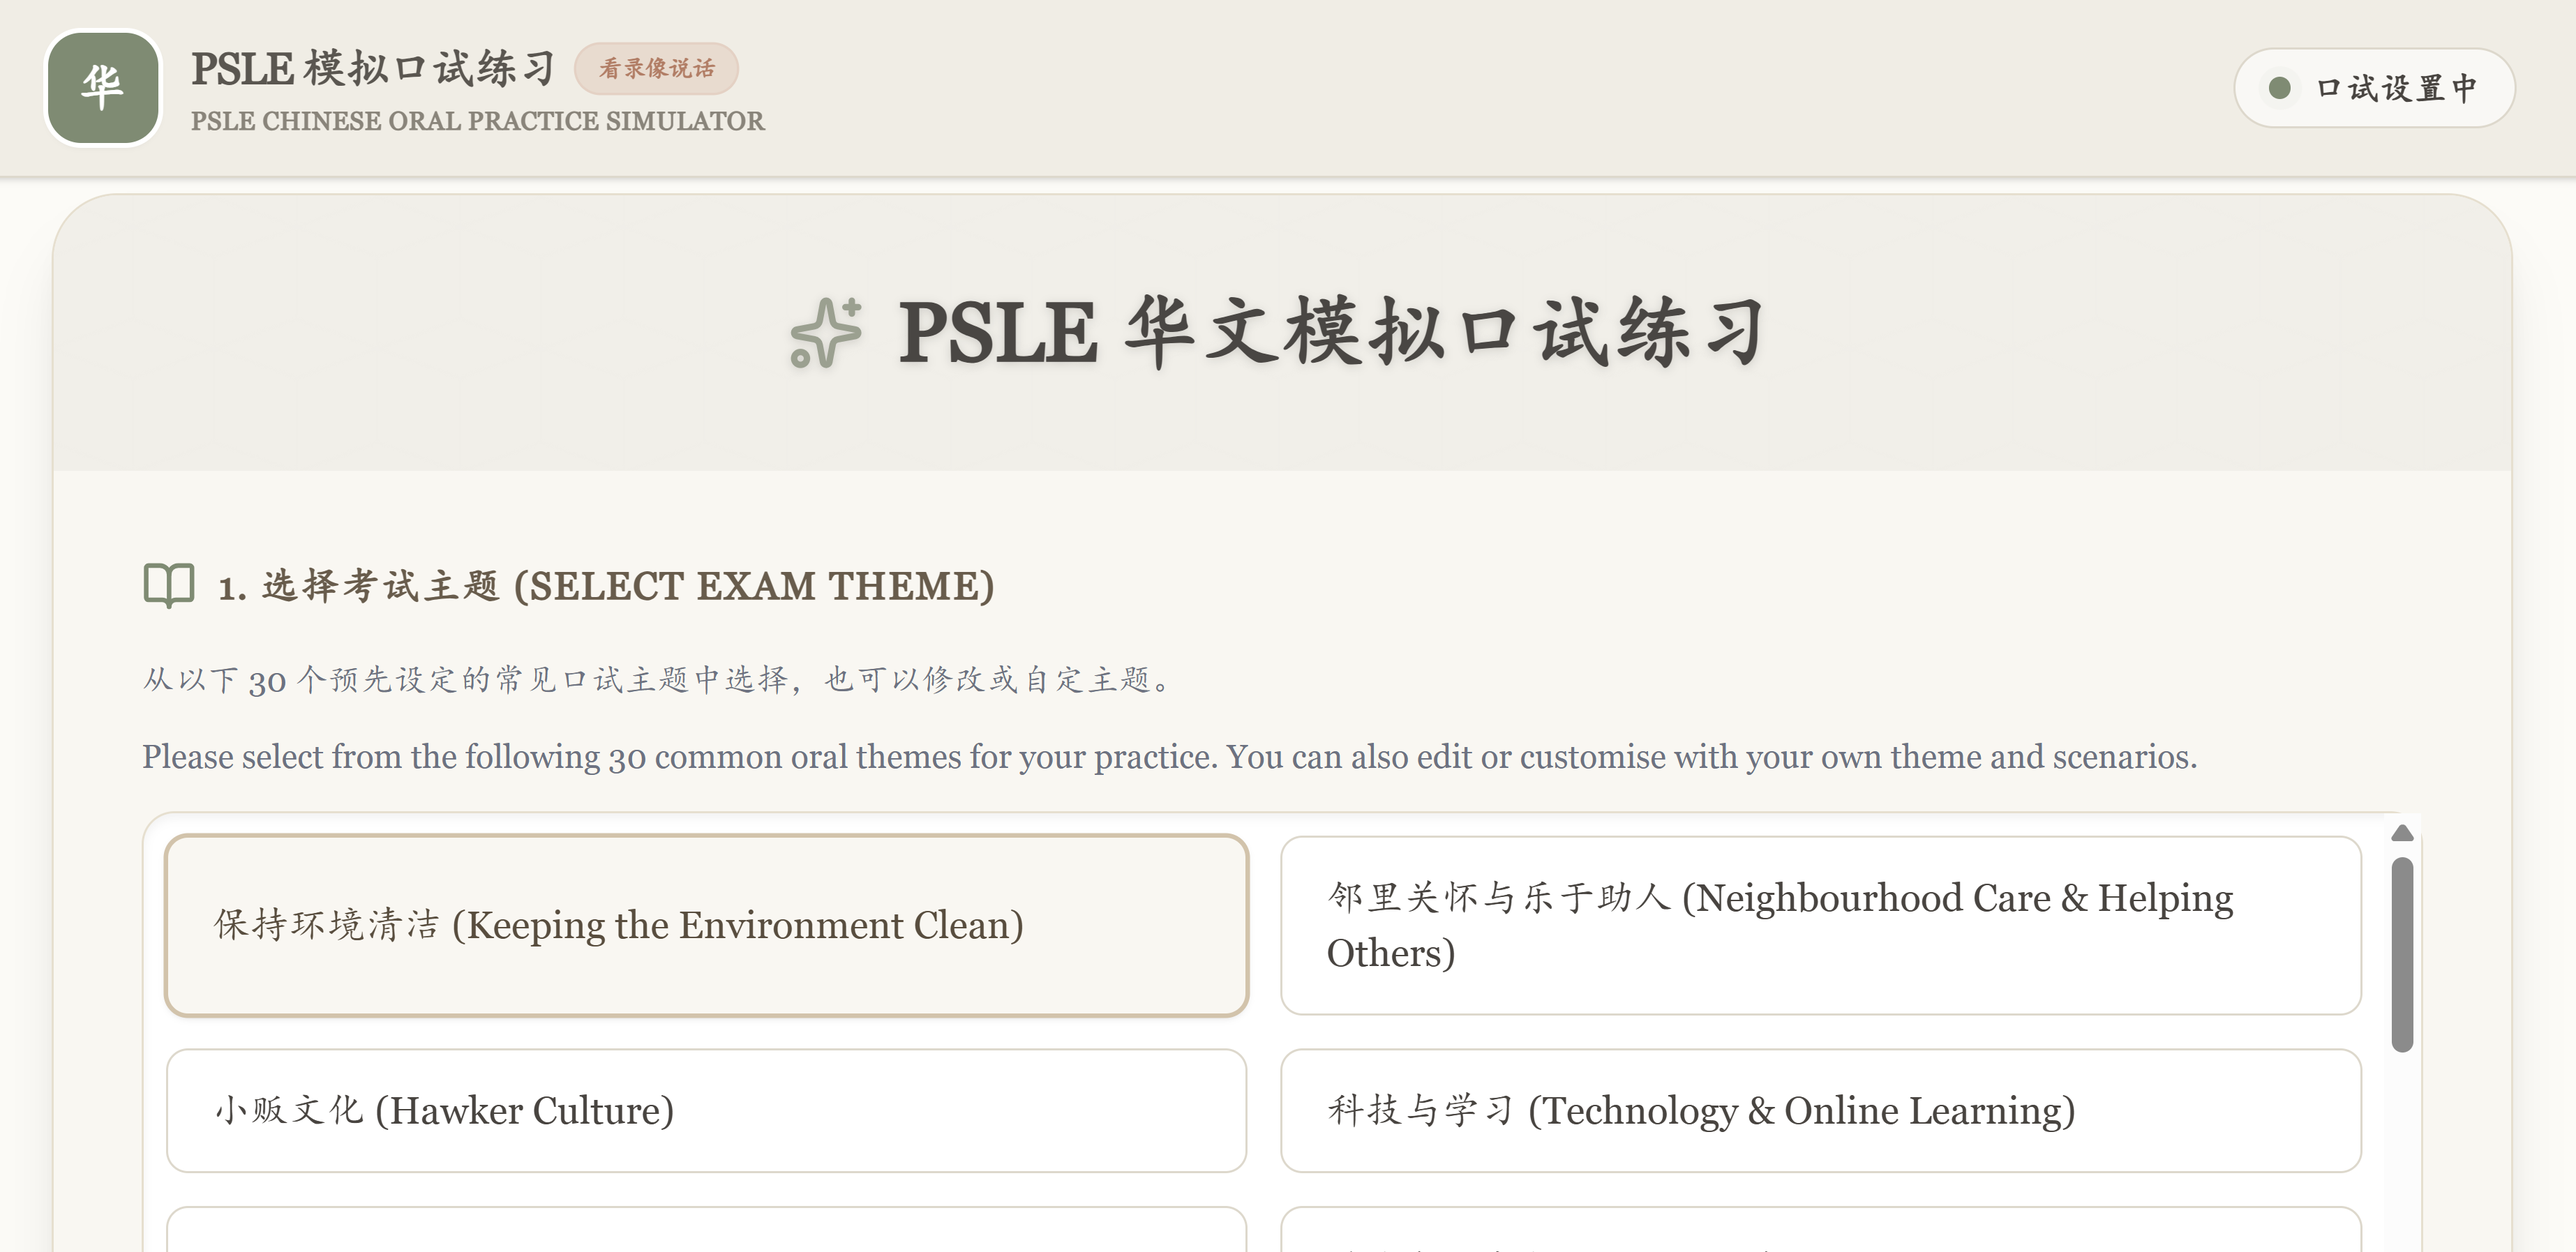
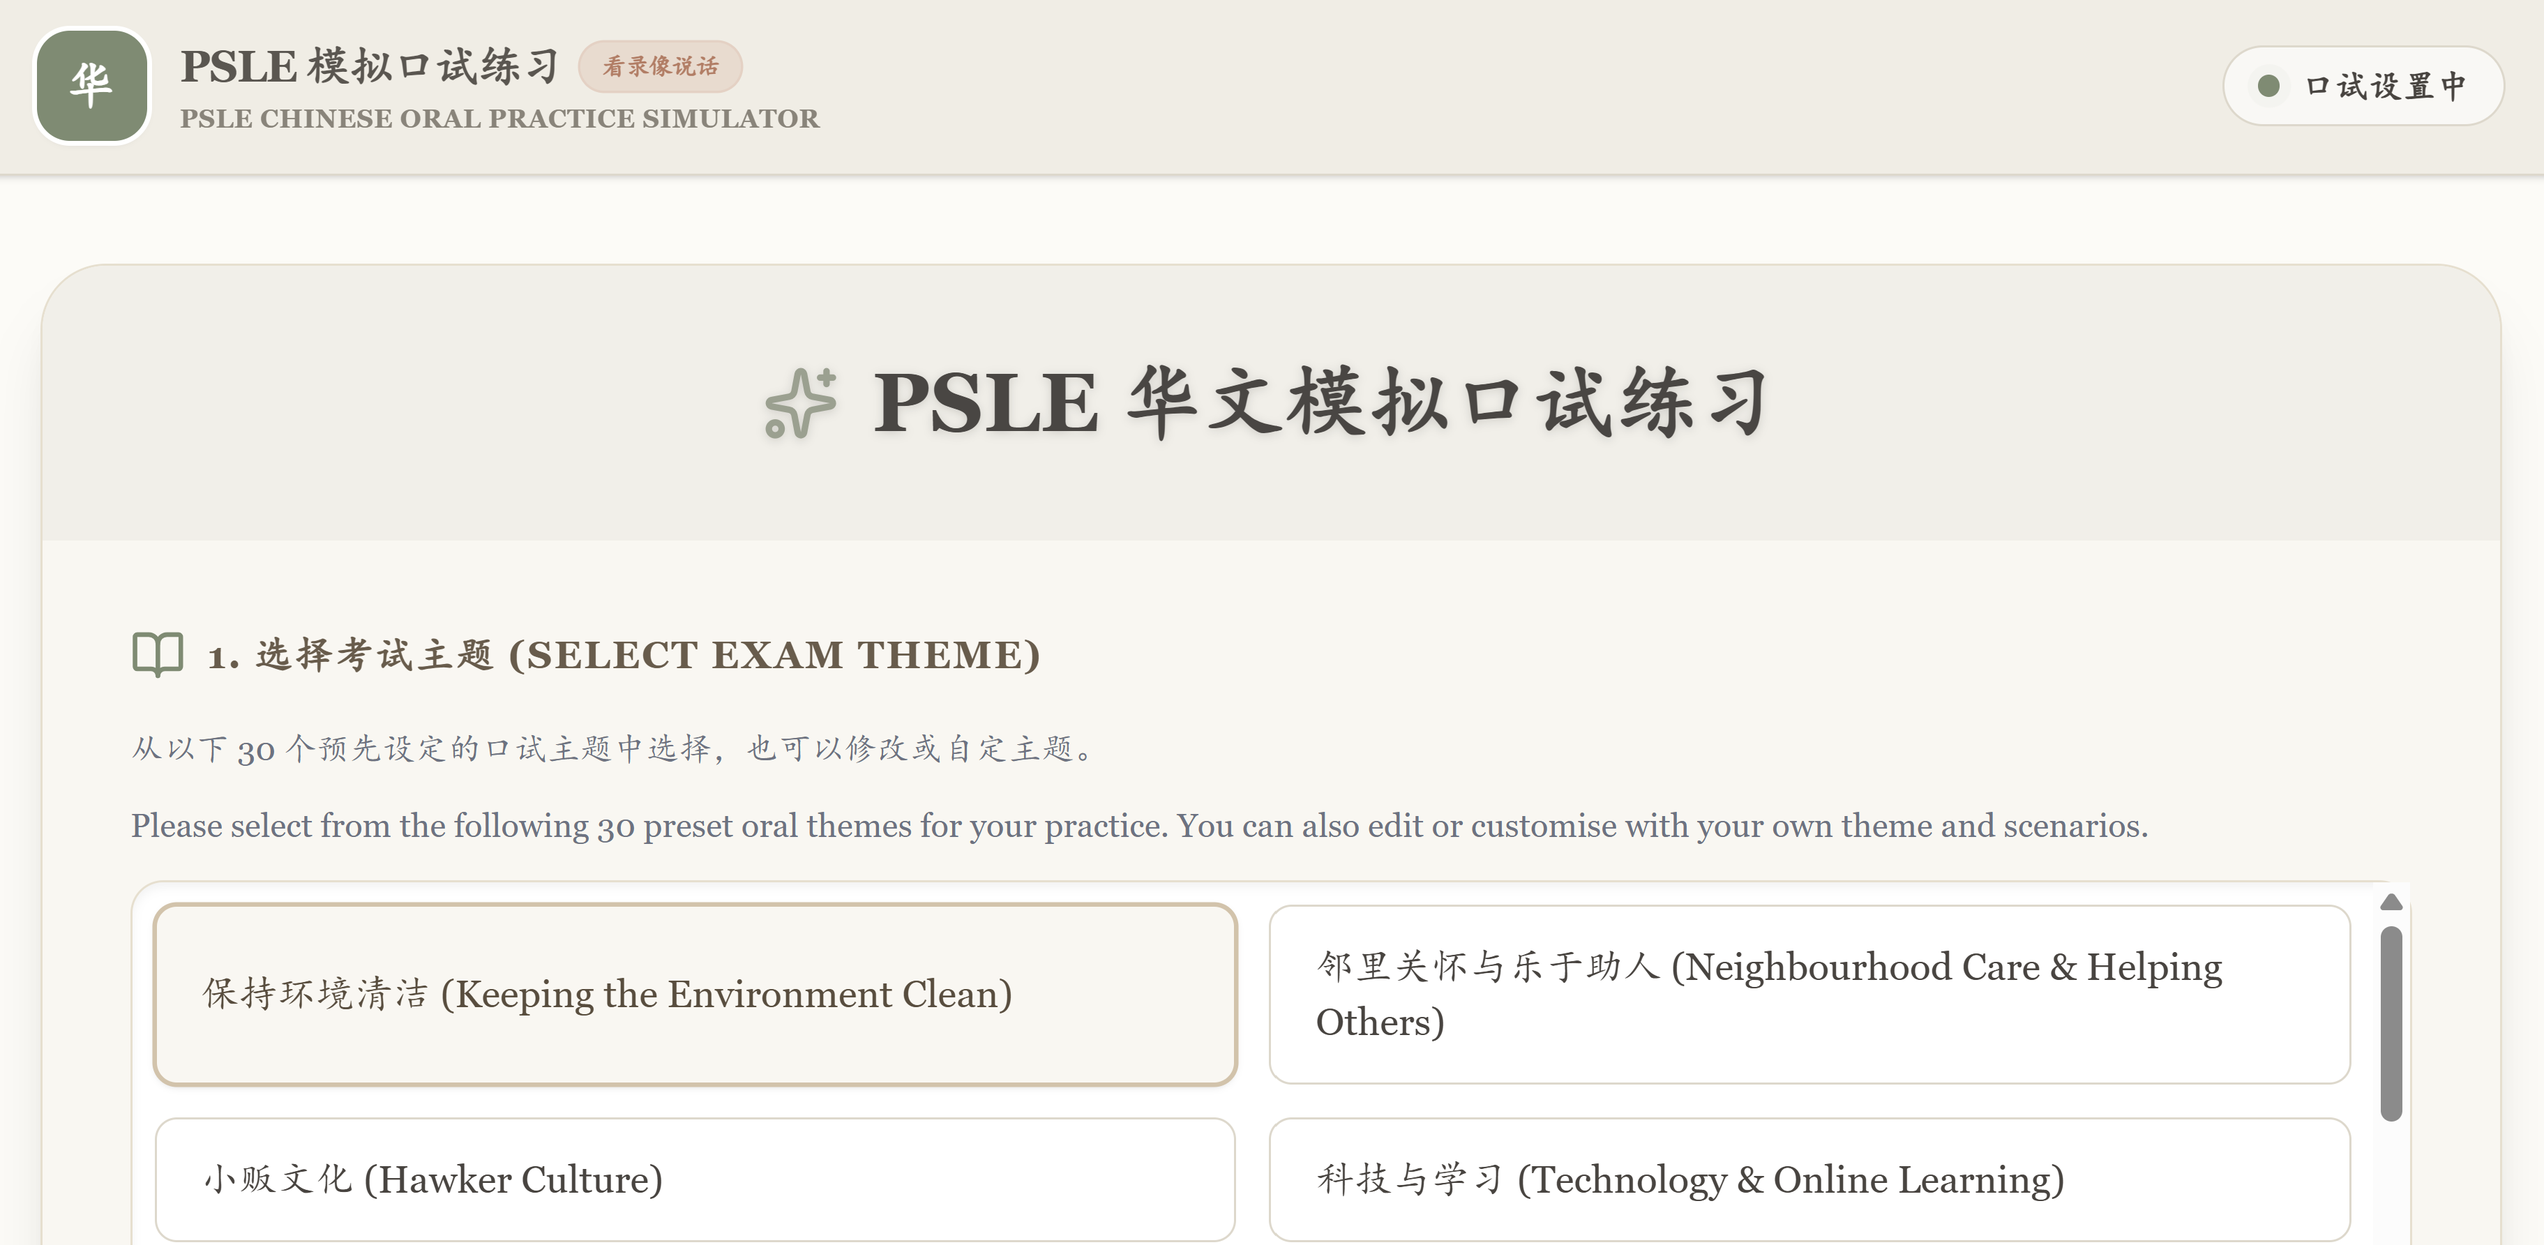
Clean up unused files

diff --git a/src/App.tsx b/src/App.tsx
@@ -302,10 +302,10 @@ return (
             <h2 className="text-2xl font-bold text-[#3A322A] mb-2">PSLE 华文模拟口试练习</h2>
             <p className="text-sm text-[#554C43] mb-6 leading-relaxed">
 
-              <span className="block mb-2">请提供您的 Google Gemini API Key。该密钥将安全地保存在您的本地浏览器中。首页末端可以随时重置 API Key。</span>
+              <span className="block mb-2">请输入您的 Google Gemini API Key。该密钥将保存在您的本地浏览器中。练习完毕后，建议利用网页末端的【清除 API Key】按钮，清除浏览器里的密钥资料。</span>
               <span className="block mb-2 text-xs text-[#857d75]"><strong>Please paste your personal Google Gemini API Key here.</strong></span>
-              <span className="block mb-2 text-xs text-[#857d75]">Your API Key will only be stored in your local browser cache.</span>
-              <span className="block text-[0.6rem] text-[#857d75]"><strong>Clear API Key</strong> button is at the footer of the app. If you are using a shared device, please ensure you click 'Clear API Key' when you are finished practicing to remove your key from this browser.</span>
+              <span className="block mb-2 text-xs text-[#857d75]">Your API Key will only be stored in your local browser storage.</span>
+              <span className="block text-[0.6rem] text-[#857d75]"><strong>Clear API Key</strong> button is at the footer of the app. It is recommended to click 'Clear API Key' when you have finished practicing to remove your key from this browser.</span>
             </p>
             <div className="relative mb-6">
               <input 
